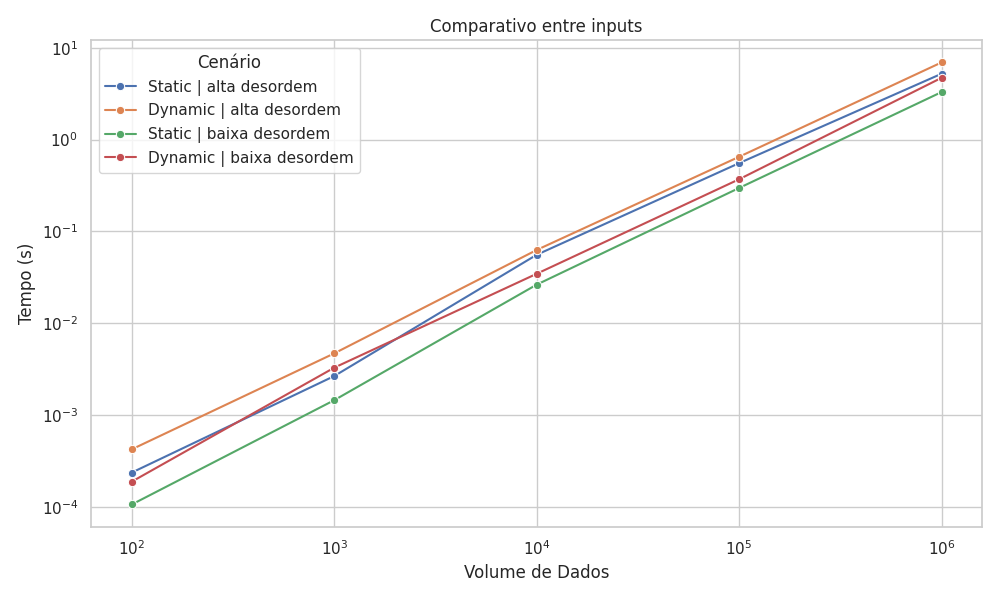
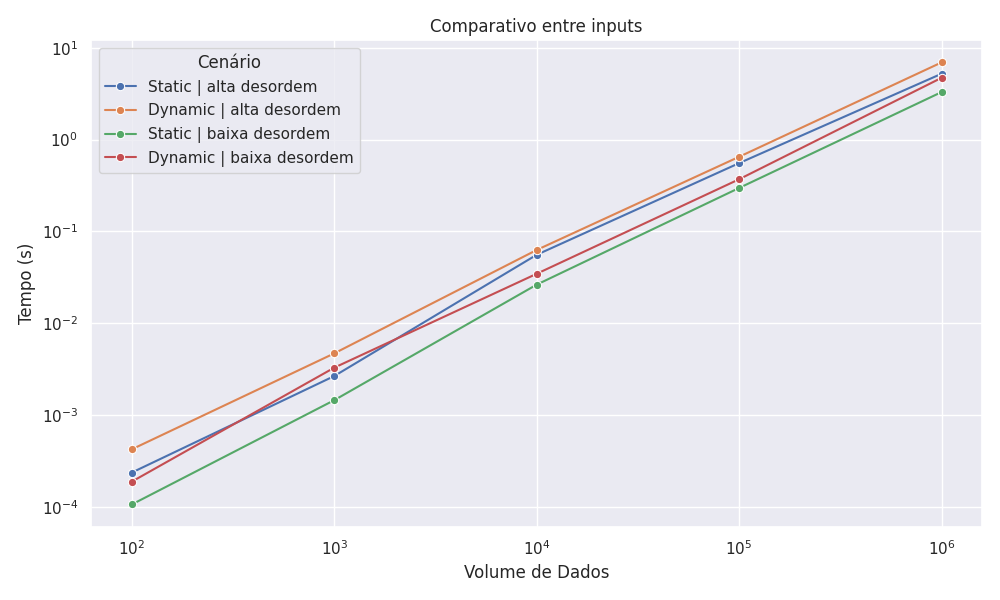
Feitos mais gráficos

diff --git a/Analytics/nlogn.py b/Analytics/nlogn.py
@@ -1,0 +1,34 @@
+import numpy as np
+import matplotlib.pyplot as plt
+import seaborn as sns
+
+# Dados
+n = np.array([100, 1_000, 10_000, 100_000, 1_000_000])
+tempo = np.array([0.000004, 0.000055, 0.000654, 0.006817, 0.082311])
+
+# Calculando n * log2(n)
+nlogn = n * np.log2(n)
+
+# Normalizar para facilitar a comparação visual (ajustar escala de nlogn)
+nlogn_normalizado = nlogn / nlogn[-1] * tempo[-1]
+
+sns.set_theme(style="dark")
+plt.figure(figsize=(10,6))
+
+# Plot do tempo real
+plt.plot(n, tempo, 'o-', label='Tempo medido (staticList C)')
+
+# Plot do n log n normalizado
+plt.plot(n, nlogn_normalizado, 's--', label='Curva n log n')
+
+plt.xscale('log')
+plt.yscale('log')
+plt.xlabel('Volume de Dados (n)')
+plt.ylabel('Tempo Total (s)')
+plt.title('Comparação: Tempo medido vs. n log n')
+plt.legend()
+plt.grid(False)
+plt.tight_layout()
+
+plt.savefig('crescimento_nlogn.png')
+plt.show()

diff --git a/Analytics/plot_diferent_inputs.py b/Analytics/plot_diferent_inputs.py
@@ -18,7 +18,7 @@ dados = pd.DataFrame({
     )
 })
 
-sns.set_theme(style="whitegrid")
+sns.set_theme(style="dark")
 plt.figure(figsize=(10,6))
 sns.lineplot(data=dados, x="Volume", y="Tempo (s)", hue="Cenário", marker="o")
 plt.xscale('log')
